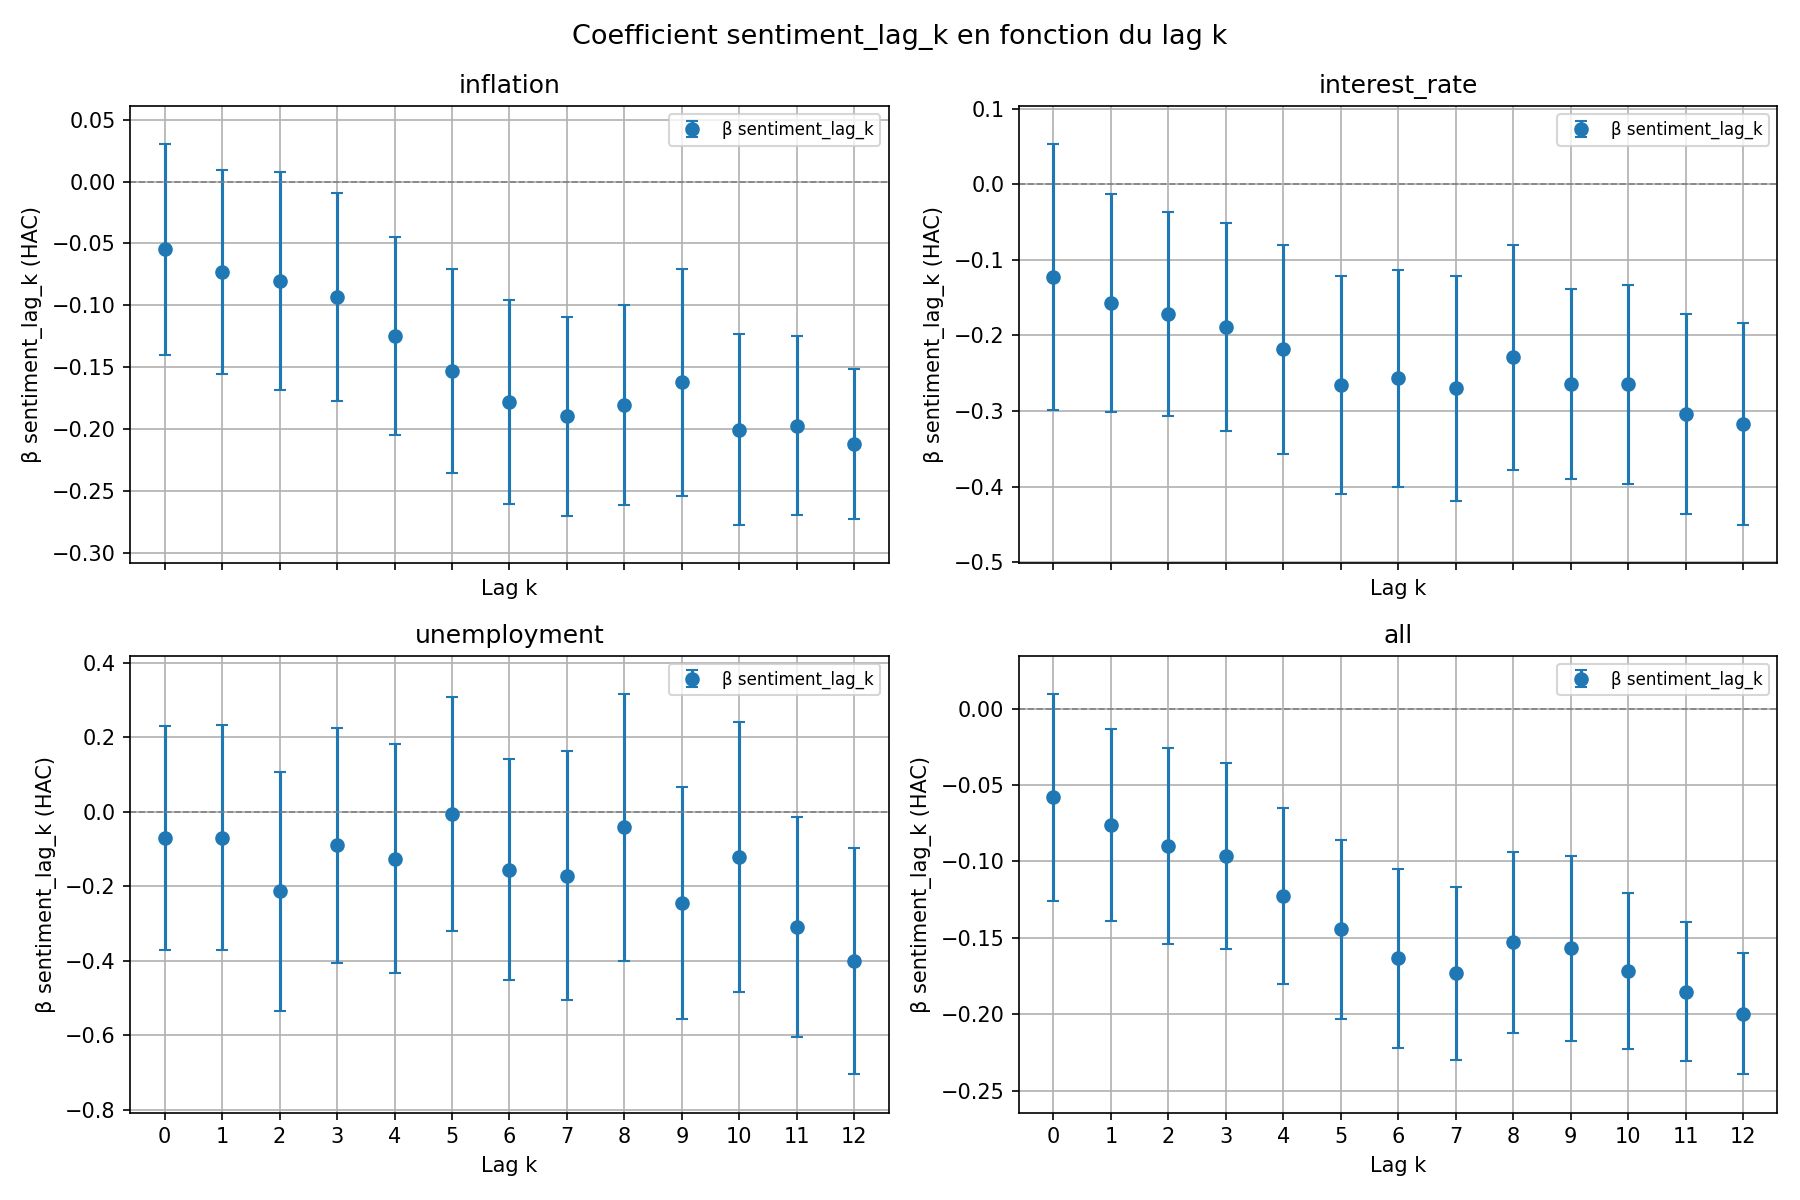
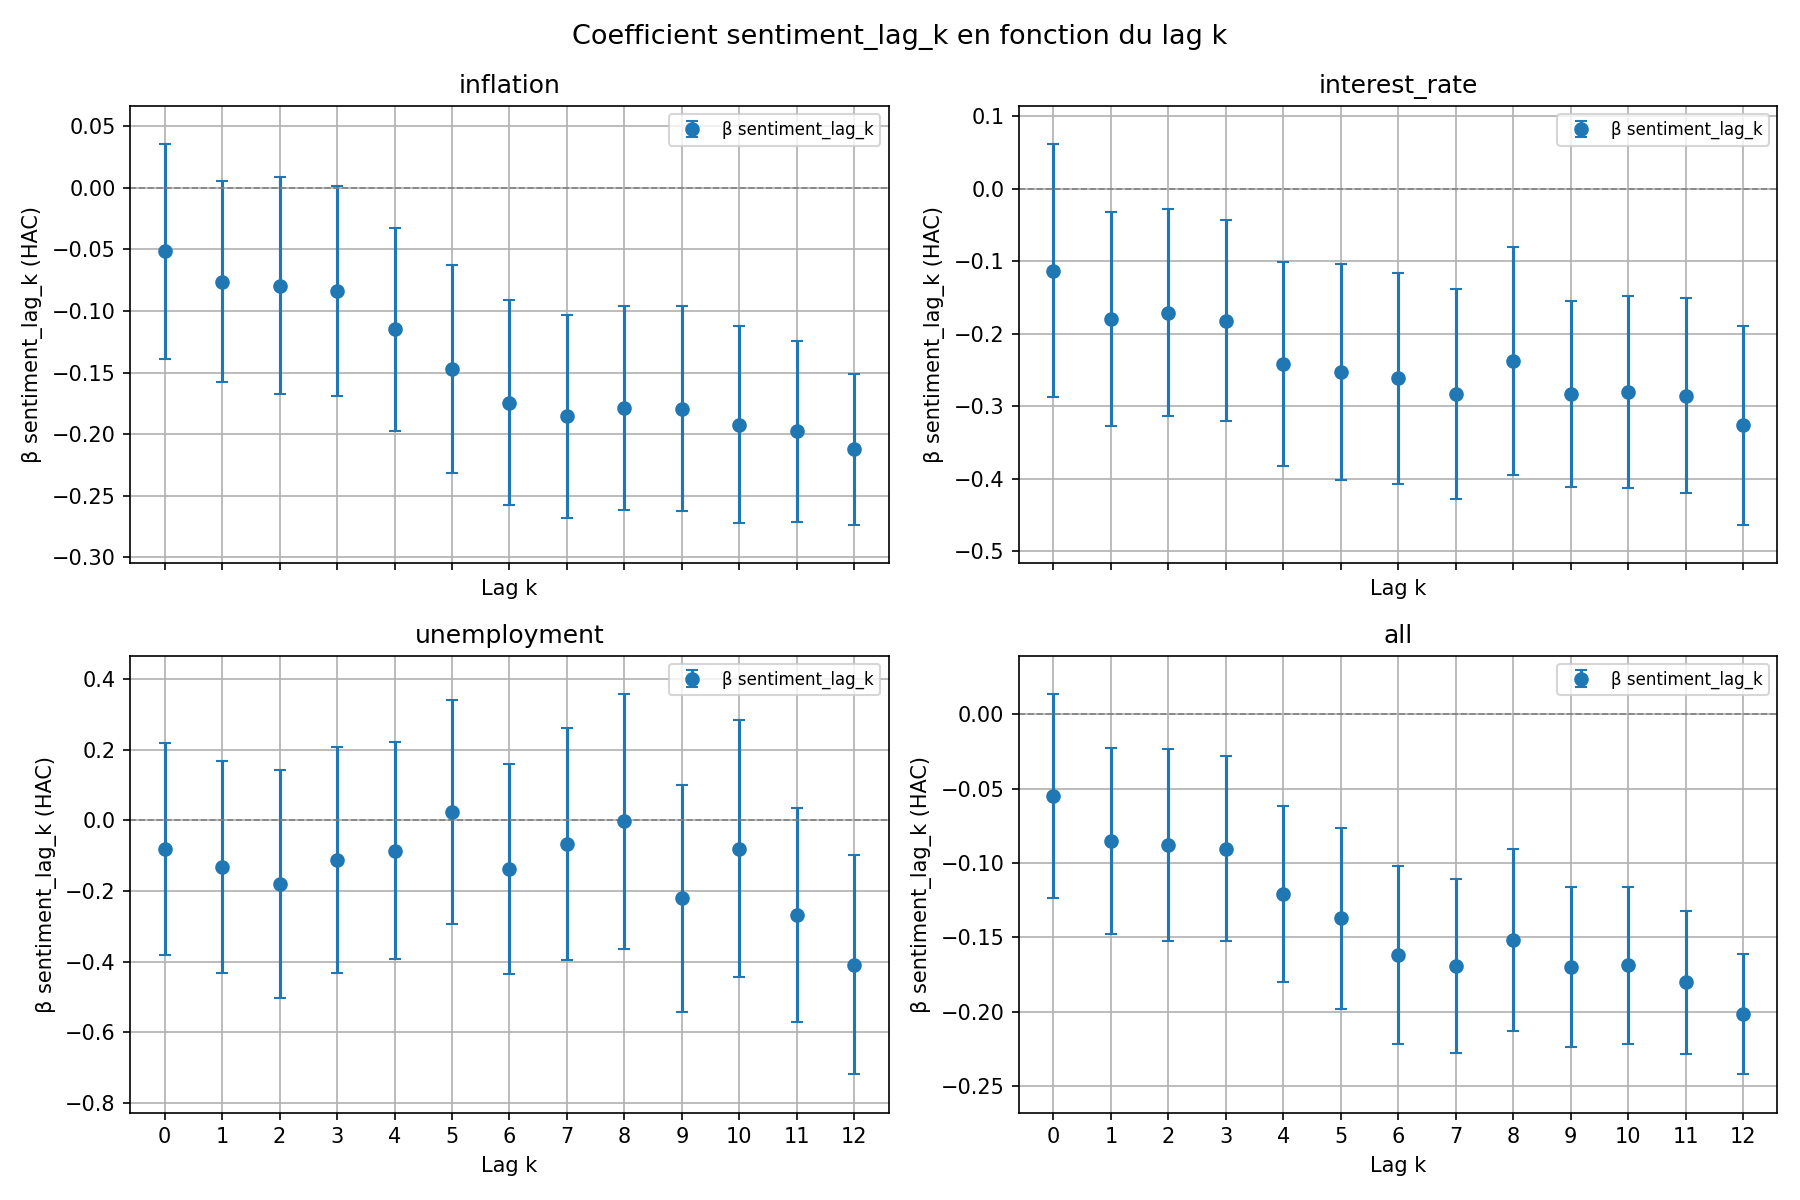
Use EONIA on the day of the press conference, as in the paper

diff --git a/src/analysis/presets.py b/src/analysis/presets.py
@@ -2,7 +2,7 @@ EONIA_PRESET = {
     'target_csv_path': 'data/raw/eonia_combined.csv',
     'target_col': 'rate',
     'target_name': 'rate',
-    'target_previous_day': True,
+    'target_previous_day': False,
     'controls': [
         {
             'csv_path': 'data/raw/mro_combined.csv',
@@ -32,7 +32,7 @@ EONIA_PAPER_STEP2_PRESET = {
     'target_csv_path': 'data/raw/eonia_combined.csv',
     'target_col': 'rate',
     'target_name': 'rate',
-    'target_previous_day': True,
+    'target_previous_day': False,
     'controls': [
         {
             'csv_path': 'data/raw/mro_combined.csv',
@@ -59,7 +59,7 @@ BUND10_PRESET = {
     'target_csv_path': 'data/raw/bund10_combined.csv',
     'target_col': 'rate',
     'target_name': 'bund10',
-    'target_previous_day': True,
+    'target_previous_day': False,
     'controls': [
         {
             'csv_path': 'data/raw/mro_combined.csv',

diff --git a/README.md b/README.md
@@ -24,7 +24,7 @@ For each index *X* and each lag *k* = 0, …, 12 press conferences:
 EONIA_t = β0 + β1 · X_{t−k} + β2 · MRO_t + ε_t
 ```
 
-MRO is the ECB's main refinancing rate. The regression is estimated by OLS with HAC standard errors (4 lags).
+EONIA is taken on the day of the press conference and MRO is the ECB's main refinancing rate. The regression is estimated by OLS with HAC standard errors (4 lags).
 β1 measures what the past tone adds to the current policy rate.
 
 ## Validation against the paper
@@ -46,7 +46,7 @@ The replication therefore uses 205 press conferences (October 1998 to December 2
 
 Coefficient β1 and its 95% HAC confidence interval, for each index and lag:
 
-- **Inflation and interest rate sentiment**: negative and significant from a lag of 3 (inflation) or 1 (interest rate) press conferences, and larger in magnitude at longer lags.
+- **Inflation and interest rate sentiment**: negative and significant from a lag of 4 (inflation) or 1 (interest rate) press conferences, and larger in magnitude at longer lags.
 - **Aggregate sentiment**: negative and significant from lag 1.
 - **Unemployment sentiment**: mostly not significant.
 
